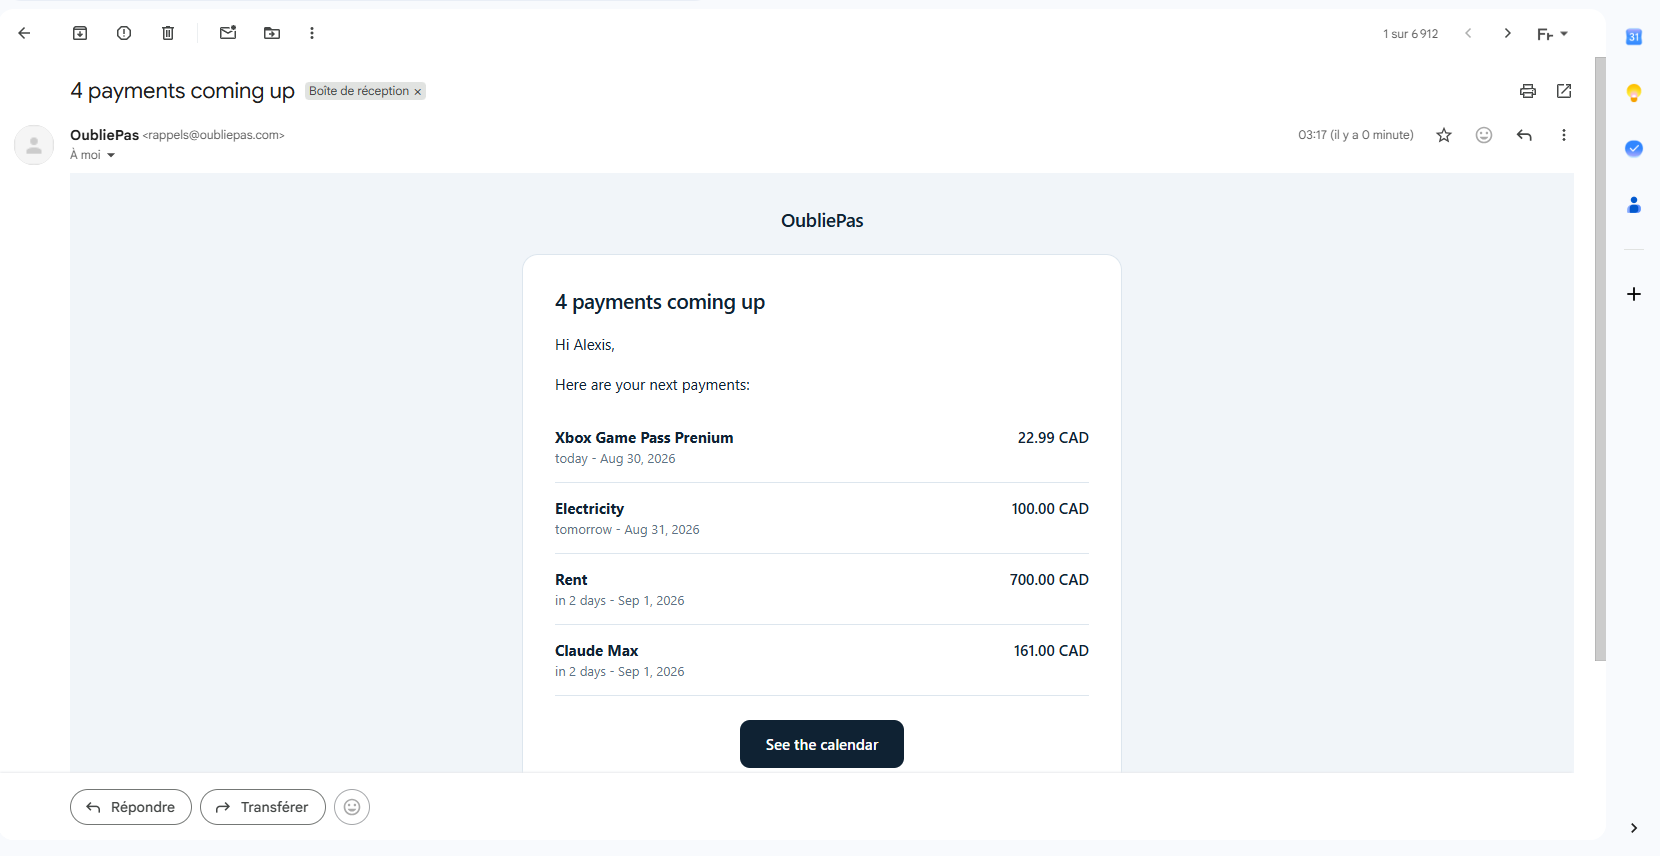
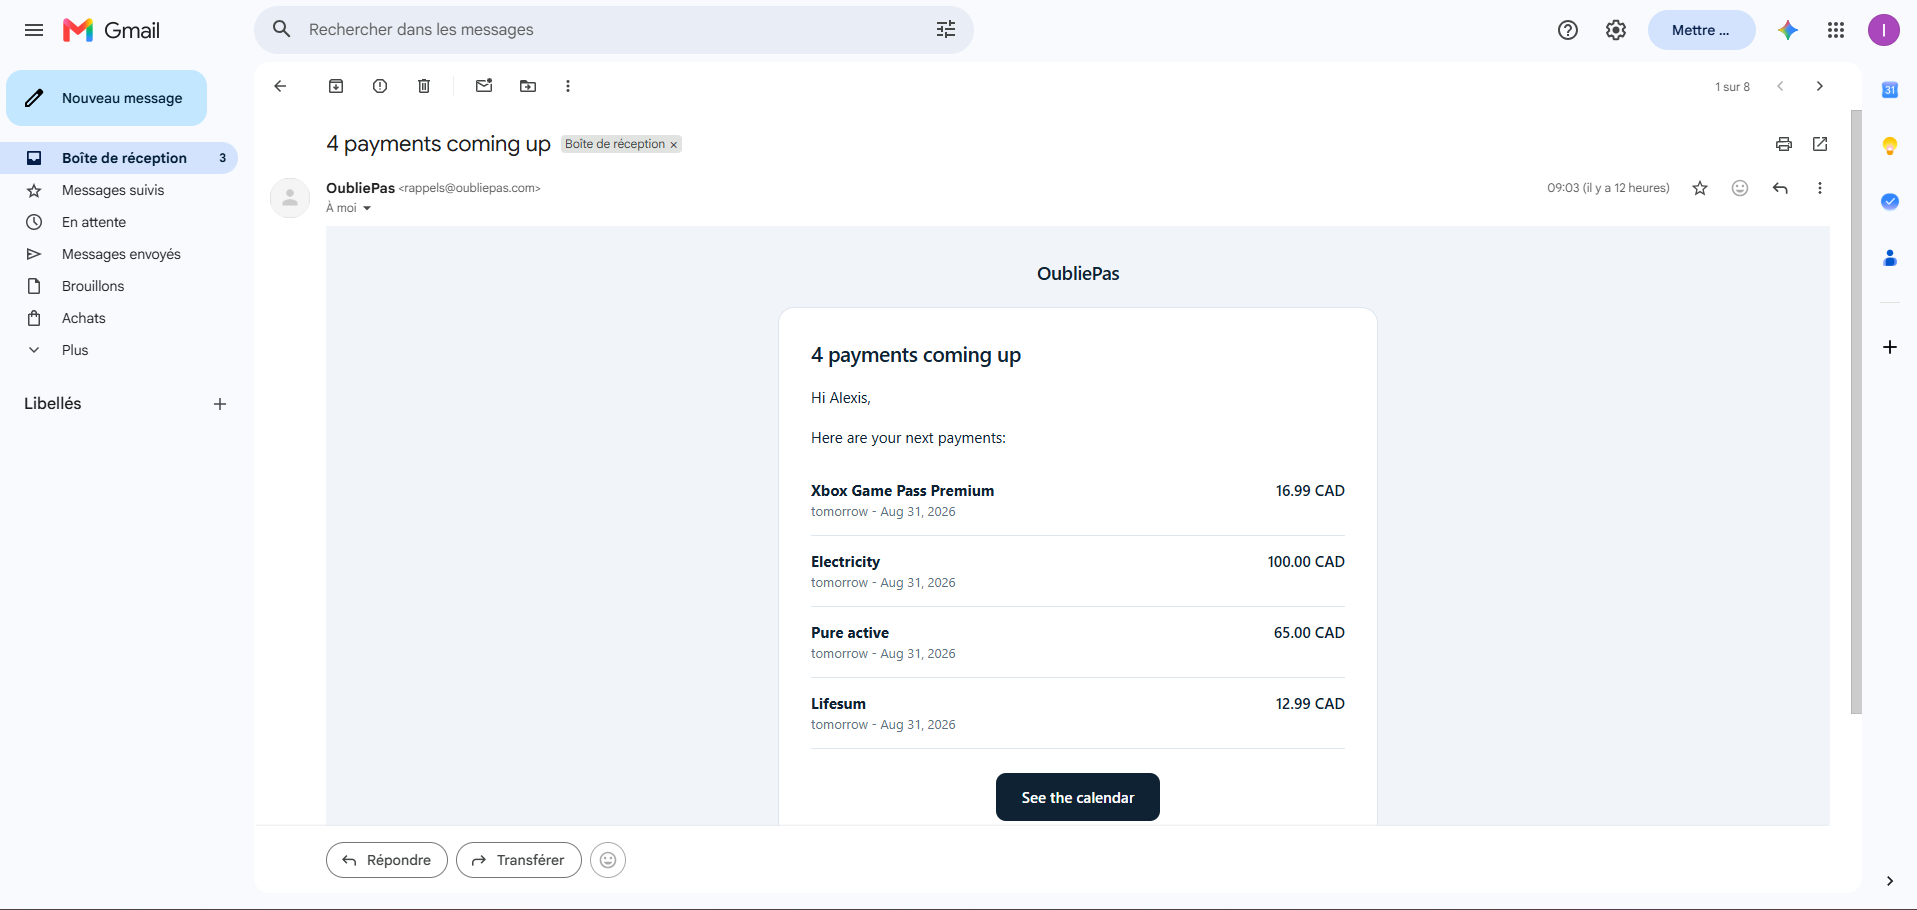
Met a jour les compteurs et nomme la passe fuseau
1 176 tests backend et 446 front, contre 1 047 et 427 annonces. La
capture du courriel de rappel, remplacee sur le disque depuis le commit
initial, part avec.

Une decision de plus a nommer : deux diagrammes du meme compte au meme
instant montraient deux mois differents, l'un lisant un resume borne en
UTC et l'autre comptant en heure du navigateur. Toute frontiere de
journee derive maintenant d'une seule lecture d'horloge et d'un fuseau
IANA garde en base.

Claude-Session: https://claude.ai/code/session_01B3h8nyutZMMBTK7RHFxeGK

diff --git a/README.md b/README.md
@@ -103,6 +103,13 @@ the database.
 `{"detail": {"code", "message"}}`. The frontend switches on `code`, never on the
 message, so the wording can change language without breaking anything.
 
+**One definition of today.** Two charts on the same account at the same moment
+showed two different months: one read a summary bounded in UTC, the other
+counted in browser time. Every day boundary now derives from one clock read and
+one stored IANA zone, and a test sweeps the layers that answer someone and
+refuses a bare server-clock read. The reminder job starts from a single instant
+that each account reads in its own calendar.
+
 **Soft delete with a single door.** Deleting sets a timestamp and the daily job
 purges after 30 days. Every read goes through one of two helpers that apply the
 `deleted_at IS NULL` guard, so it cannot be forgotten in one query out of
@@ -110,11 +117,12 @@ fourteen and leak a deleted amount back into a total.
 
 ### Tests
 
-1,047 backend tests and 349 frontend tests. The rule is that a guard must prove
+1,176 backend tests and 446 frontend tests. The rule is that a guard must prove
 it bites: reintroduce the defect it prevents and watch a named test fail, before
 calling it a guard. A read-only end-to-end suite checks the live deployment —
-security headers, CORS, that the service worker is served from the root, and that
-the built bundle calls the deployed API rather than a laptop.
+security headers, CORS, that the service worker is served from the root and
+declares the `fetch` handler that makes the app installable, and that the built
+bundle calls the deployed API rather than a laptop.
 
 ---
 
@@ -124,4 +132,5 @@ the built bundle calls the deployed API rather than a laptop.
 
 Live. The API runs on Railway alongside PostgreSQL, Redis and a scheduled worker;
 the client is deployed on Vercel. French and English throughout, light and dark
-themes, and a progressive web app that can be installed on a phone.
+themes, and a progressive web app: it installs from the browser, runs in its own
+window and stays readable without a connection.
